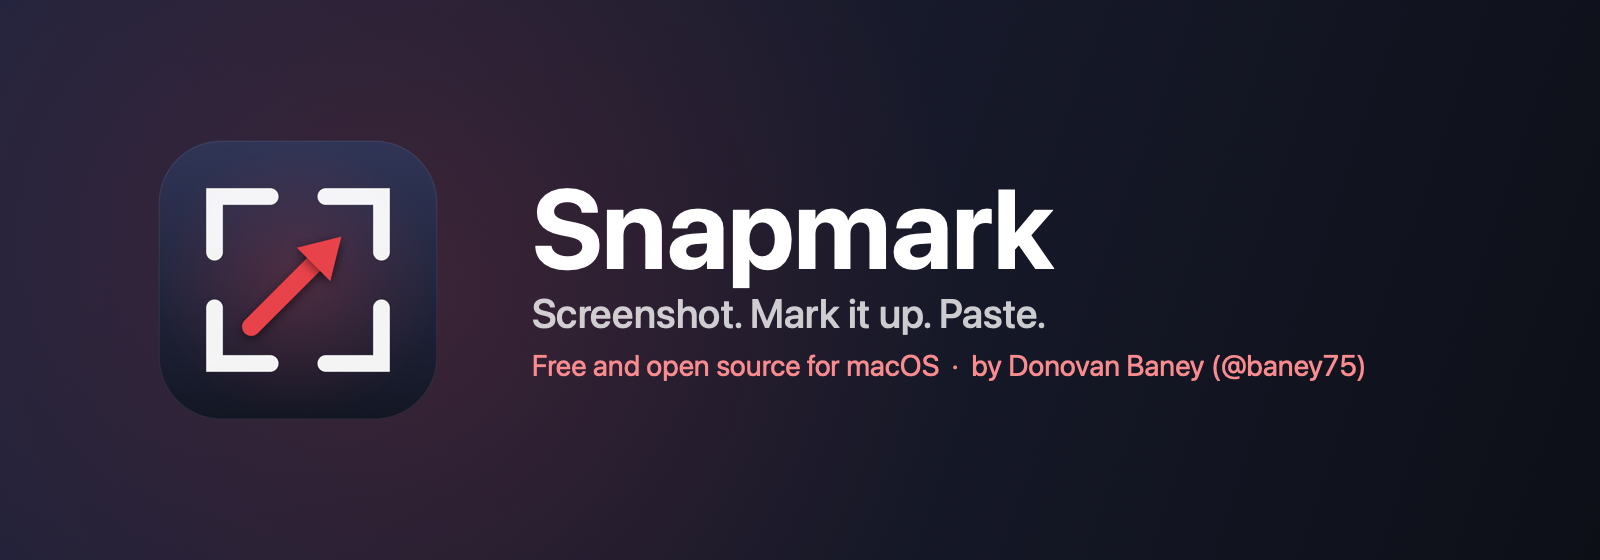
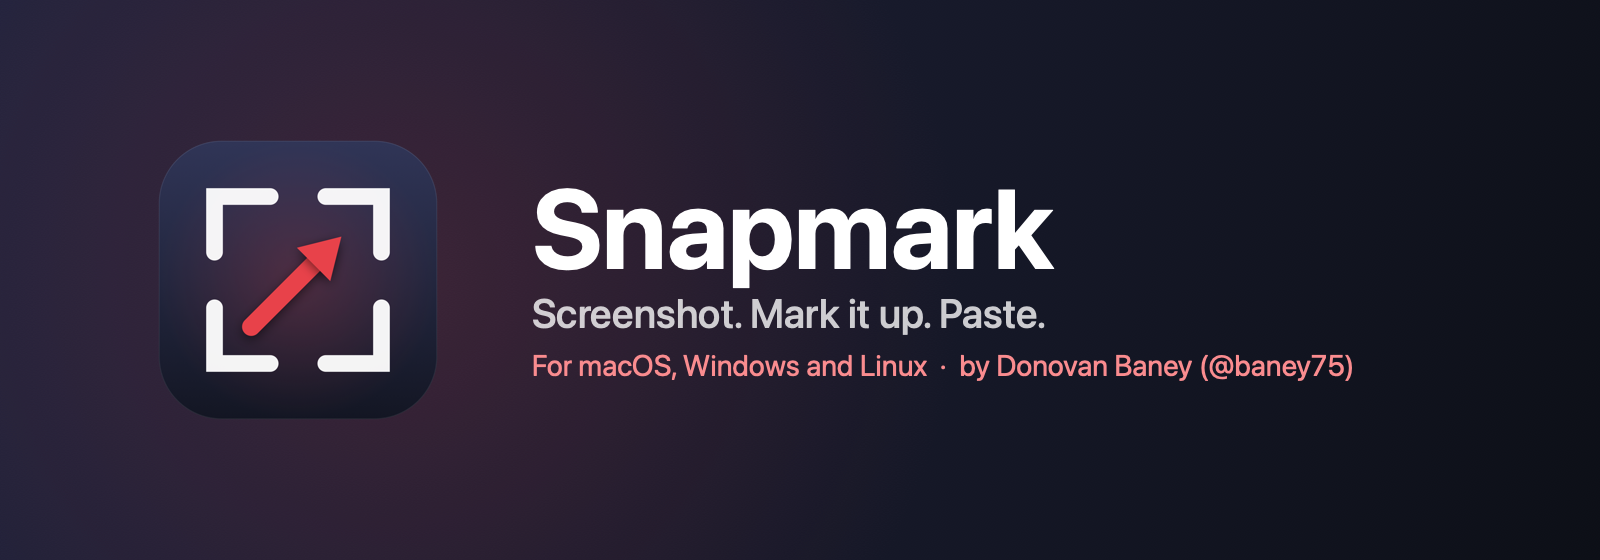
WIP handoff from Mac 2026-10-10 (polish/desktop-ui)

Changed region(s): [[0.3438, 0.6375, 0.875, 0.6982]]

diff --git a/macos/scripts/make-brand.swift b/macos/scripts/make-brand.swift
@@ -29,7 +29,7 @@ func render(_ w: Int, _ h: Int, iconSize: CGFloat, title: CGFloat, to name: Stri
     text("Snapmark", size: title, weight: .bold, color: .white, at: CGPoint(x: x, y: H / 2 + title * 0.1))
     text("Screenshot. Mark it up. Paste.", size: title * 0.36, weight: .medium,
          color: NSColor(white: 1, alpha: 0.78), at: CGPoint(x: x, y: H / 2 - title * 0.42))
-    text("Free and open source for macOS  ·  by Donovan Baney (@baney75)", size: title * 0.26, weight: .regular,
+    text("For macOS, Windows and Linux  ·  by Donovan Baney (@baney75)", size: title * 0.26, weight: .regular,
          color: NSColor(srgbRed: 0.98, green: 0.55, blue: 0.56, alpha: 1), at: CGPoint(x: x, y: H / 2 - title * 0.85))
     let rep = NSBitmapImageRep(cgImage: ctx.makeImage()!)
     try! rep.representation(using: .png, properties: [:])!.write(to: URL(fileURLWithPath: "\(out)/\(name)"))
